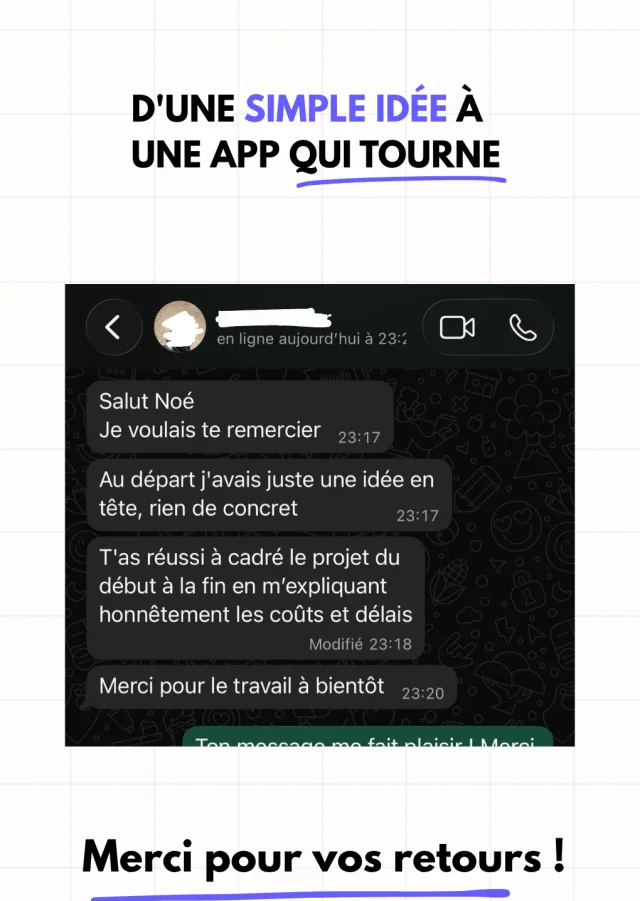
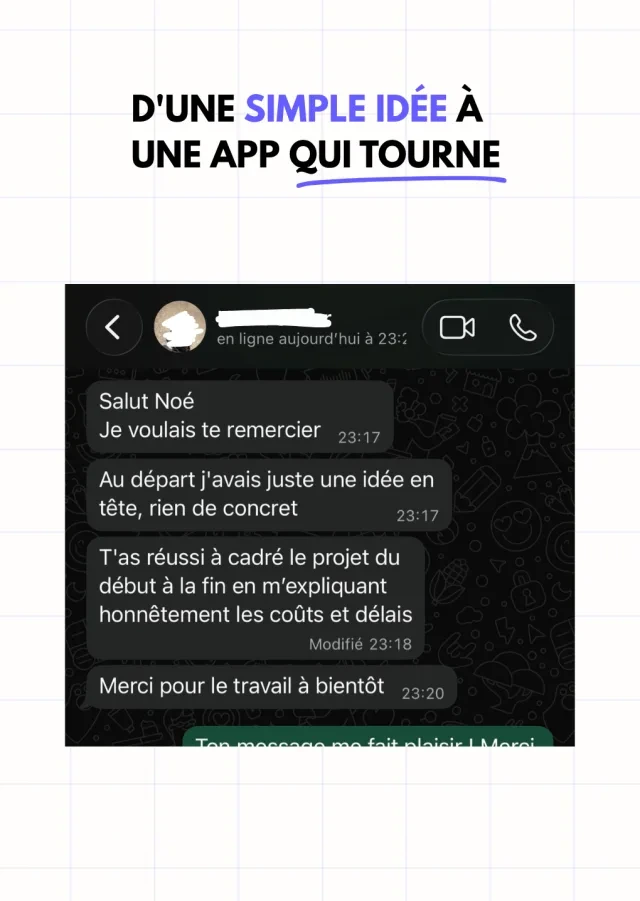
Avis : « Ce que disent mes clients », sans « Merci pour vos retours ! »
- Titre des avis, sur l'accueil et sur /projets : « Ce que disent mes
  clients » (les mots de Noé), au lieu de « Ce qu'en disent mes clients »
  (« c'est pas français »). Petit titre « Avis clients » inchangé.
- Première story : la phrase « Merci pour vos retours ! » du bas est
  effacée, le quadrillage recopié d'un carreau plus haut pour que les
  lignes tombent juste.

Claude-Session: https://claude.ai/code/session_01P65FVpXqpWWQ7RQy5iUe2y

Changed region(s): [[0.125, 0.9323, 0.9062, 1.0]]

diff --git a/src/App.jsx b/src/App.jsx
@@ -1071,9 +1071,10 @@ function App() {
           LES AVIS CLIENTS SONT ICI, sous le bouton (Noé, 11/10/2026) : tous les boutons de la page (« J'ai une idée »,
           « Discuter avec Noé ») mènent à cette section ; celui qui hésite au moment d'écrire trouve juste dessous ce que
           disent les clients, avant la FAQ. Les cartes viennent de src/AvisClients.jsx, partagé avec /projets (ce qu'il
-          y a dedans, l'ordre et la règle des messages réels : voir ce fichier). Titre « Ce qu'en disent mes clients »,
-          le même que sur /projets : c'était « Pourquoi me faire confiance ? » jusqu'au 11/10/2026, une question qui fait
-          douter avant de rassurer et qui annonce un argument, alors qu'on montre des messages. Pas de tableau « Une
+          y a dedans, l'ordre et la règle des messages réels : voir ce fichier). Titre « Ce que disent mes clients », le
+          même que sur /projets (les mots de Noé, 11/10/2026 au soir : « Ce qu'en disent mes clients », essayé l'après-midi,
+          « c'est pas français »). Avant : « Pourquoi me faire confiance ? », une question qui fait douter avant de
+          rassurer et qui annonce un argument, alors qu'on montre des messages. Pas de tableau « Une
           agence / Avec moi » dessous : ses trois lignes redisaient le tarif et le délai (le chiffre d'une agence est
           sous chacun, dans les étapes) et « Tu bosses direct avec moi » (ci-dessous), et le deuxième avis raconte déjà
           l'agence, par la bouche d'un client. Id « avis-clients » sur le bloc des avis (« confiance » jusqu'au
@@ -1132,7 +1133,7 @@ function App() {
               Avis clients
             </p>
             <h3 className="reveal font-jakarta text-text text-xl md:text-[1.6rem] font-extrabold tracking-tight text-center mb-6 md:mb-10">
-              Ce qu'en disent <span className="text-brand">mes clients</span>
+              Ce que disent <span className="text-brand">mes clients</span>
             </h3>
             <div className="reveal">
               <AvisClients />

diff --git a/src/AvisClients.jsx b/src/AvisClients.jsx
@@ -1,12 +1,17 @@
 // LES AVIS CLIENTS, source unique : l'accueil (sous « Parlons de ton projet ») et /projets les affichent tous les
 // deux, à l'identique (Noé, 11/10/2026 : « je veux la même partie que dans projets, c'est plus propre »). Chaque page
-// pose son propre titre au-dessus (« Ce qu'en disent mes clients ») ; ce composant donne les trois cartes et la note.
+// pose son propre titre au-dessus (« Ce que disent mes clients », les mots de Noé ; « Ce qu'en disent… », essayé le
+// même jour, « c'est pas français ») ; ce composant donne les trois cartes et la note.
 //
 // Les cartes sont les visuels de /projets d'avant le 11/10/2026, faits par Noé pour le surligné « Témoignages » de son
 // Instagram : un titre en capitales avec des mots en violet, la conversation WhatsApp réelle, sur papier quadrillé.
 // Sur téléphone, l'une sous l'autre ; sur ordinateur (1024 px et plus), côte à côte, celles des bords légèrement
 // penchées, droites au survol. Un essai du 11/10/2026 (cartes recadrées sur la conversation, titre écrit en texte,
 // rangée qu'on fait glisser) a été refusé : « c'est plus propre » comme ici.
+//
+// Sur temoignage-idee.webp, la phrase du bas de la story, « Merci pour vos retours ! », est effacée (Noé, 11/10/2026 :
+// sur le site, elle s'adressait aux clients, pas au visiteur) : le quadrillage y est recopié de la bande juste
+// au-dessus, décalé d'un carreau (84 px), pour que les lignes tombent juste.
 //
 // NOMS MASQUÉS : le 11/10/2026, le nom du client a été recouvert d'une barre noire sur temoignage-refonte.webp et
 // temoignage-delais.webp (il était lisible sur /projets) ; sur temoignage-idee.webp, Noé l'avait déjà effacé. Images

diff --git a/src/Projets.jsx b/src/Projets.jsx
@@ -359,7 +359,7 @@ export default function Projets({ onBack }) {
             clients masqué. Petit titre « Avis clients », comme le lien de la barre de l'accueil (« Retours clients »
             jusqu'au 11/10/2026). */}
         <div className="relative mt-16 lg:mt-24">
-          <SectionHead eyebrow="Avis clients" title="Ce qu'en disent mes clients" />
+          <SectionHead eyebrow="Avis clients" title="Ce que disent mes clients" />
           <AvisClients />
         </div>
 

diff --git a/documentation/architecture/landing-page.md b/documentation/architecture/landing-page.md
@@ -268,7 +268,7 @@ tarif et le délai, n'existe plus en tableau : le chiffre d'une agence est sous 
    fond, Noé 11/10/2026),
    le bouton WhatsApp « Discuter avec Noé » (suivi `home_contact`) et « Tu bosses direct avec moi ».
    Placée avant la FAQ le 11/10/2026 (Noé). Fond gris depuis le 11/10/2026 (les fonds alternent).
-   **Puis, sous le bouton, les avis clients** : « Ce qu'en disent mes clients » (`#avis-clients`, sous « Avis
+   **Puis, sous le bouton, les avis clients** : « Ce que disent mes clients » (`#avis-clients`, sous « Avis
    clients », lien du même nom dans la barre ; la route /avis y mène ; `scroll-mt-24` pour que la barre ne le
    cache pas), séparé du bouton par un filet. Descendus ici le 11/10/2026 (Noé : « les avis, je les verrais en
    bas ») : tous les boutons de la page (« J'ai une idée », « Discuter avec Noé ») mènent à cette section, donc
@@ -276,15 +276,19 @@ tarif et le délai, n'existe plus en tableau : le chiffre d'une agence est sous 
    sous la FAQ : la FAQ répond aux questions, les avis rassurent au moment de cliquer.
    Des avis depuis le 11/10/2026 (Noé : « il veut de la preuve sociale »). Le titre était « Pourquoi me faire
    confiance ? » jusqu'au 11/10/2026 à 14 h (Noé : « le titre est bon ? ») : une question fait douter avant de
-   rassurer et annonce un argument, alors qu'on montre des messages ; « Ce qu'en disent mes clients » dit ce
-   qu'on voit, et c'est le titre de /projets. Trois messages WhatsApp réels (confirmé par Noé), ceux du surligné
+   rassurer et annonce un argument, alors qu'on montre des messages. Puis « Ce qu'en disent mes clients », le
+   titre de /projets, l'après-midi : « c'est pas français » (Noé, le soir). Depuis : « Ce que disent mes
+   clients », ses mots, sur les deux pages, sous le petit titre « Avis clients » (le lien de la barre). Trois
+   messages WhatsApp réels (confirmé par Noé), ceux du surligné
    « Témoignages » de son Instagram (il n'y en a pas d'autres pour l'instant). **La même partie que sur
    /projets, une seule source : `src/AvisClients.jsx`**, affiché par l'accueil et par /projets (Noé,
    11/10/2026 : « je veux la même partie que dans projets, c'est plus propre ») : les visuels de Noé, format
    story (titre en capitales avec des mots en violet, la conversation, papier quadrillé), dans
    `public/assets/images/avis/temoignage-…webp` ; l'un sous l'autre sur téléphone, côte à côte et ceux des bords
    légèrement penchés sur ordinateur. Le nom du client est recouvert d'une barre noire sur deux d'entre eux (il
-   était lisible sur /projets jusqu'au 11/10/2026 ; le troisième, Noé l'avait déjà effacé). Le titre de chaque
+   était lisible sur /projets jusqu'au 11/10/2026 ; le troisième, Noé l'avait déjà effacé). Sur le premier, la
+   phrase du bas de la story, « Merci pour vos retours ! », est effacée (Noé, 11/10/2026 : elle parlait aux
+   clients, pas au visiteur ; le quadrillage est recopié d'un carreau plus haut). Le titre de chaque
    carte est dans l'image, le texte `alt` le reprend : « D'une simple idée à une app qui tourne », « Une app qui
    existait, mais qui ne rapportait pas », « Livré dans les délais, 100 % satisfait ». Le deuxième répond à
    « pourquoi moi et pas une agence » et prouve les écrans qui font payer, sans redire la vidéo. Dessous : « Messages
